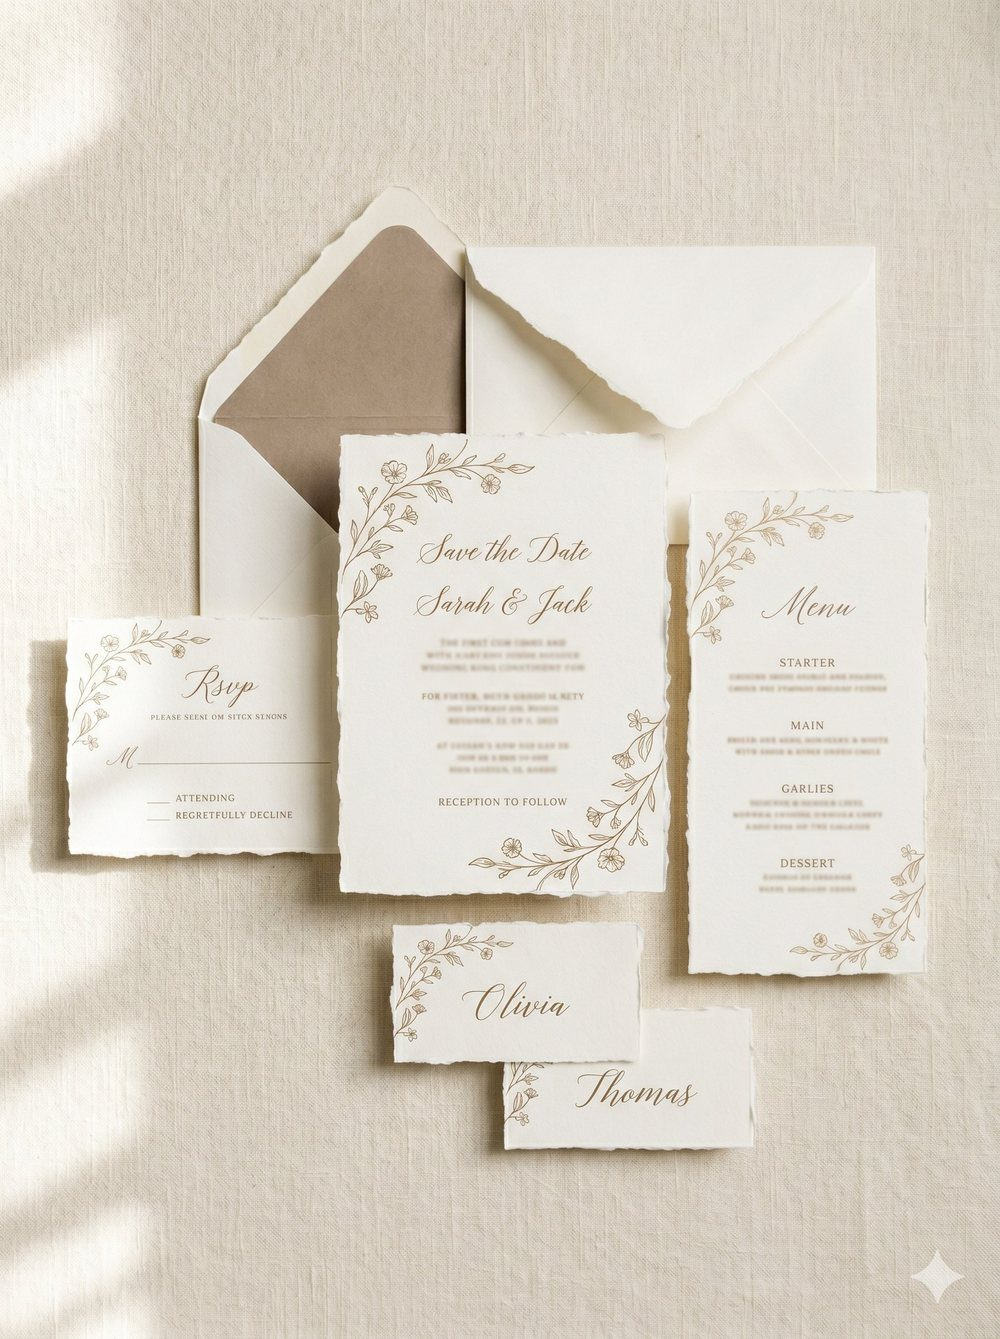
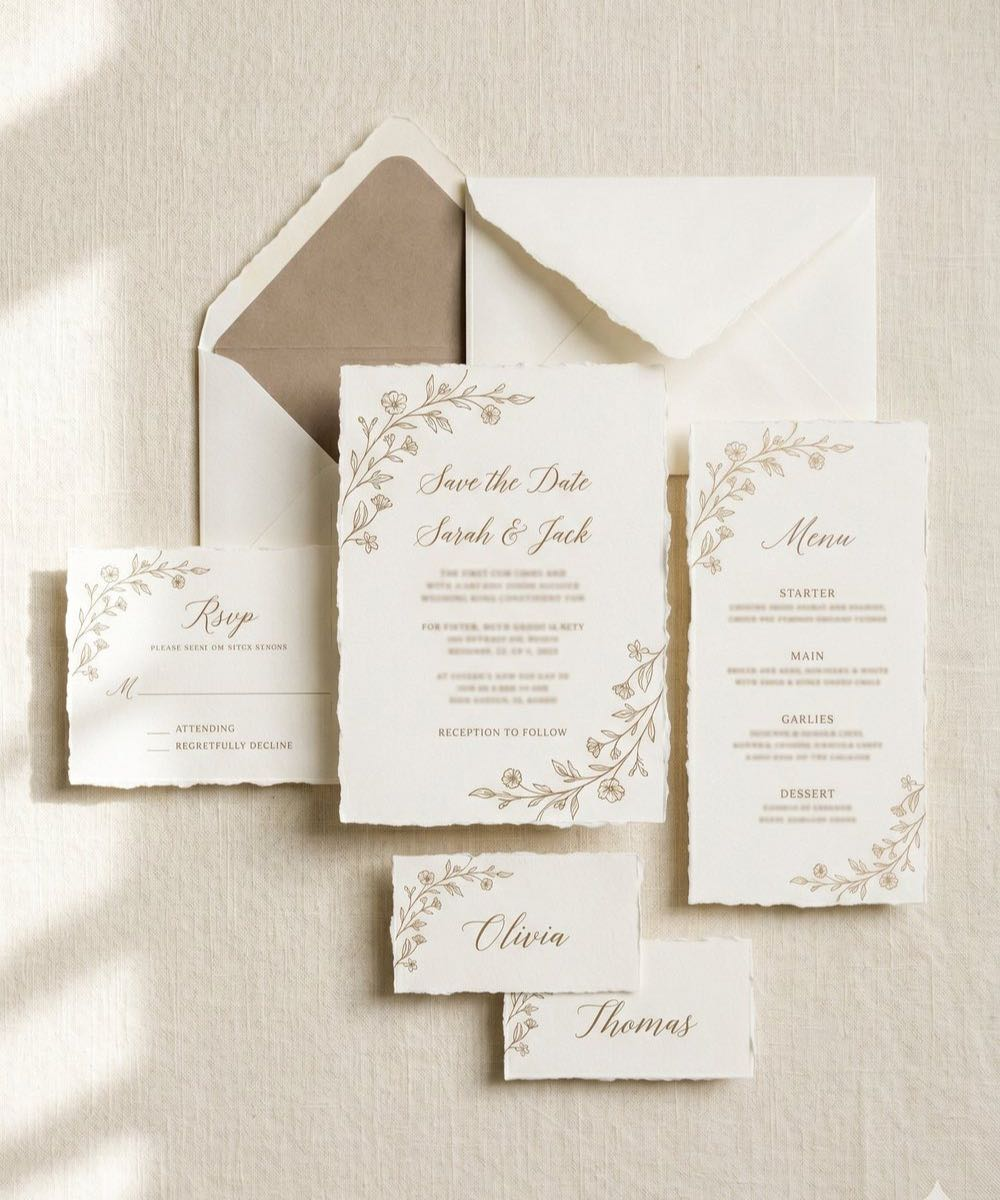
Crop the AI watermark off the home page image
home-made-for-you.jpg was generated and the generator left its sparkle mark in
the bottom-right corner. It was visible on the live site: the frame is 4/5 and
the image was 1000x1339, taller than that, so object-fit:cover trimmed the top
and bottom and left the corner showing.

Located it by scanning the pixels rather than guessing. The first attempt put
the mark at 783,1123 to 998,1335, which was wrong — that box was mostly the
"Thomas" place card, which is white and bright. Separating the clusters by
density put the mark at roughly x 925-990, y 1207-1293, and the lowest real
content, the same place card, at y 1089.

So the top 1200 rows keep everything and lose the mark. Cropped with sips
--cropOffset, which takes an exact origin; its plain crop is centred and would
have taken as much off the top.

134KB, down from 199KB, at "normal" rather than "high" quality — checked by eye
at full size first, because paper texture and deckled edges are the whole point
of the photograph.

One knock-on worth knowing: at 1000x1200 the image is now slightly WIDER than
the 4/5 frame, so the browser trims 20px from each side instead of 45 from the
top and bottom. The cards span x 0-969 with clear margin, so nothing is clipped.

tools/test-hero-image-cropped.py — 12 checks. A watermark cannot be tested for
directly, so it pins the height: restore the uncropped original and it fails on
three counts.

diff --git a/tools/test-hero-image-cropped.py b/tools/test-hero-image-cropped.py
@@ -1,0 +1,75 @@
+#!/usr/bin/env python3
+"""The "Made in the UK" image has no AI watermark on it.
+Run:  python3 tools/test-hero-image-cropped.py
+
+home-made-for-you.jpg was generated, and the generator left its sparkle mark in
+the bottom-right corner. The image was 1000x1339 and the mark sat at roughly
+y 1207-1293, inside the part the page actually showed: the frame is 4/5 and the
+image was taller than that, so object-fit:cover trimmed the top and bottom but
+left the corner visible.
+
+Cropping to the top 1200 rows removes it. Nothing is lost — the lowest card,
+the "Thomas" place card, ends around y 1089.
+
+A watermark cannot be tested for directly, so this pins the thing that can be:
+the height. If the uncropped original is ever restored the height goes back to
+1339 and this fails. It also checks the frame still matches, because the crop
+changed which edges the browser trims.
+"""
+import io, os, struct, sys
+
+ROOT = os.path.dirname(os.path.dirname(os.path.abspath(__file__)))
+passed = failed = 0
+def is_(label, got, want=True):
+    global passed, failed
+    ok = got == want
+    if ok: passed += 1
+    else:  failed += 1
+    print(('  ok   ' if ok else '  FAIL ') + label +
+          ('' if ok else '   got %r, want %r' % (got, want)))
+
+def jpeg_size(path):
+    d = io.open(path, 'rb').read()
+    i = 2
+    while i < len(d):
+        if d[i] != 0xFF:
+            i += 1; continue
+        m = d[i + 1]
+        if m in (0xC0, 0xC1, 0xC2):
+            h, w = struct.unpack('>HH', d[i + 5:i + 9]); return w, h, len(d)
+        if m in (0xD8, 0xD9) or 0xD0 <= m <= 0xD7:
+            i += 2; continue
+        i += 2 + struct.unpack('>H', d[i + 2:i + 4])[0]
+    return None, None, len(d)
+
+IMG = 'home-made-for-you.jpg'
+w, h, size = jpeg_size(os.path.join(ROOT, IMG))
+
+print('\nTHE IMAGE IS THE CROPPED ONE')
+is_('it is still there', os.path.exists(os.path.join(ROOT, IMG)))
+is_('width unchanged at 1000', w, 1000)
+is_('height is 1200, not the original 1339', h, 1200)
+is_('so the rows carrying the mark (1207-1293) are gone', h < 1207)
+
+print('\nNOTHING WAS LOST FROM THE BOTTOM')
+# The lowest real content — the "Thomas" place card — ends around y 1089.
+is_('the crop sits below the lowest card', h > 1089 + 20)
+
+print('\nTHE PAGE STILL FRAMES IT THE SAME WAY')
+index = io.open(os.path.join(ROOT, 'index.html'), encoding='utf-8').read()
+is_('the frame is still 4/5', 'aspect-ratio:4/5' in index)
+is_('and the image still fills it', 'object-fit:cover' in index)
+is_('the page still points at this file', '/' + IMG in index)
+# 1000/1200 is wider than 4/5, so the browser trims the sides, not top/bottom.
+is_('the image is wider than the frame, so the sides are trimmed', w / h > 0.8)
+
+print('\nIT HAS NOT BALLOONED')
+is_('under 200KB (was 199KB before the crop)', size < 200 * 1024)
+print('       (%d x %d, %d KB)' % (w, h, size // 1024))
+
+print('\nMUTATION: THE UNCROPPED ORIGINAL MUST FAIL')
+is_('a 1339-tall image is caught', 1339 < 1207, False)
+is_('and 1200 passes', 1200 < 1207, True)
+
+print('\n%d passed, %d failed\n' % (passed, failed))
+sys.exit(1 if failed else 0)
